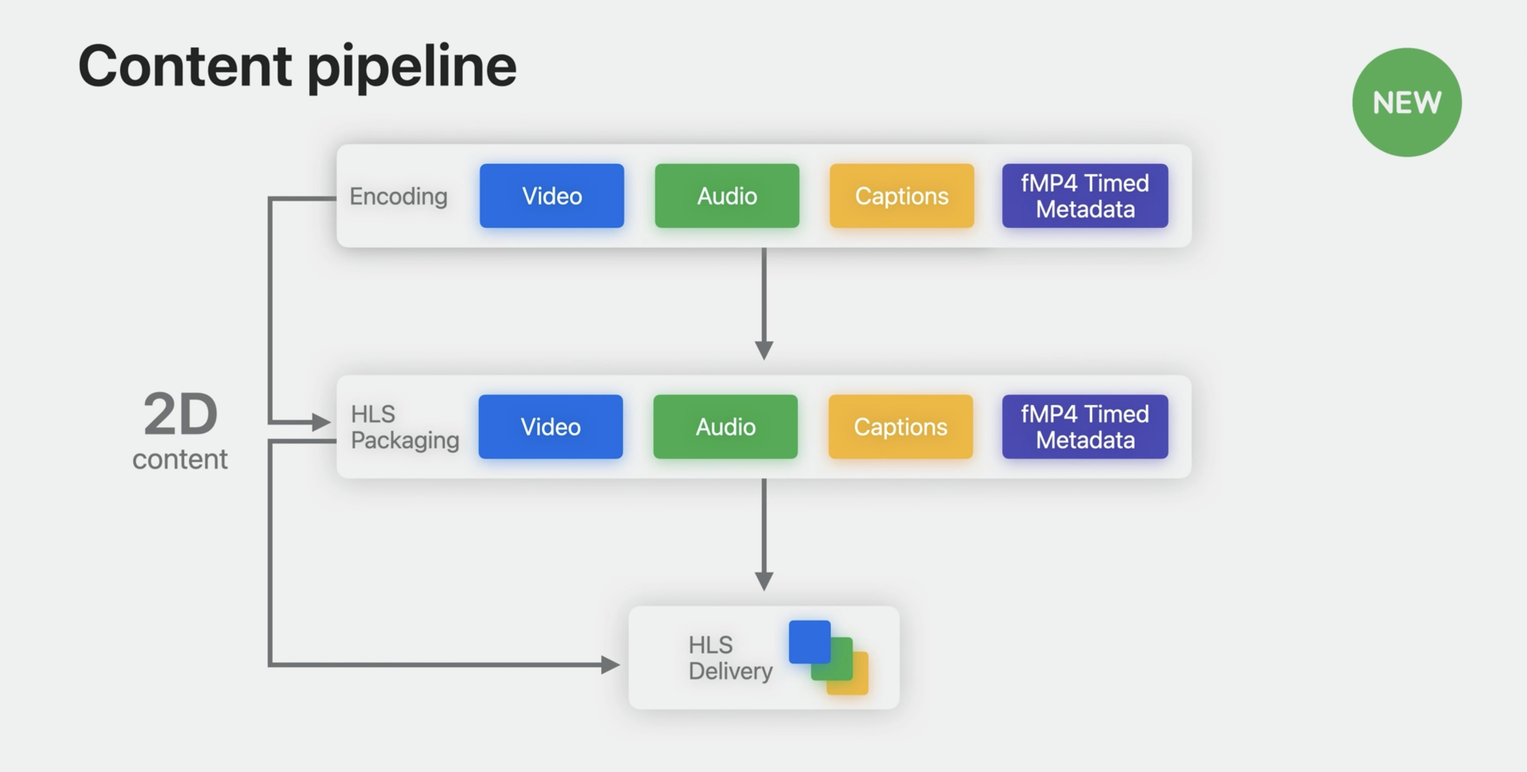
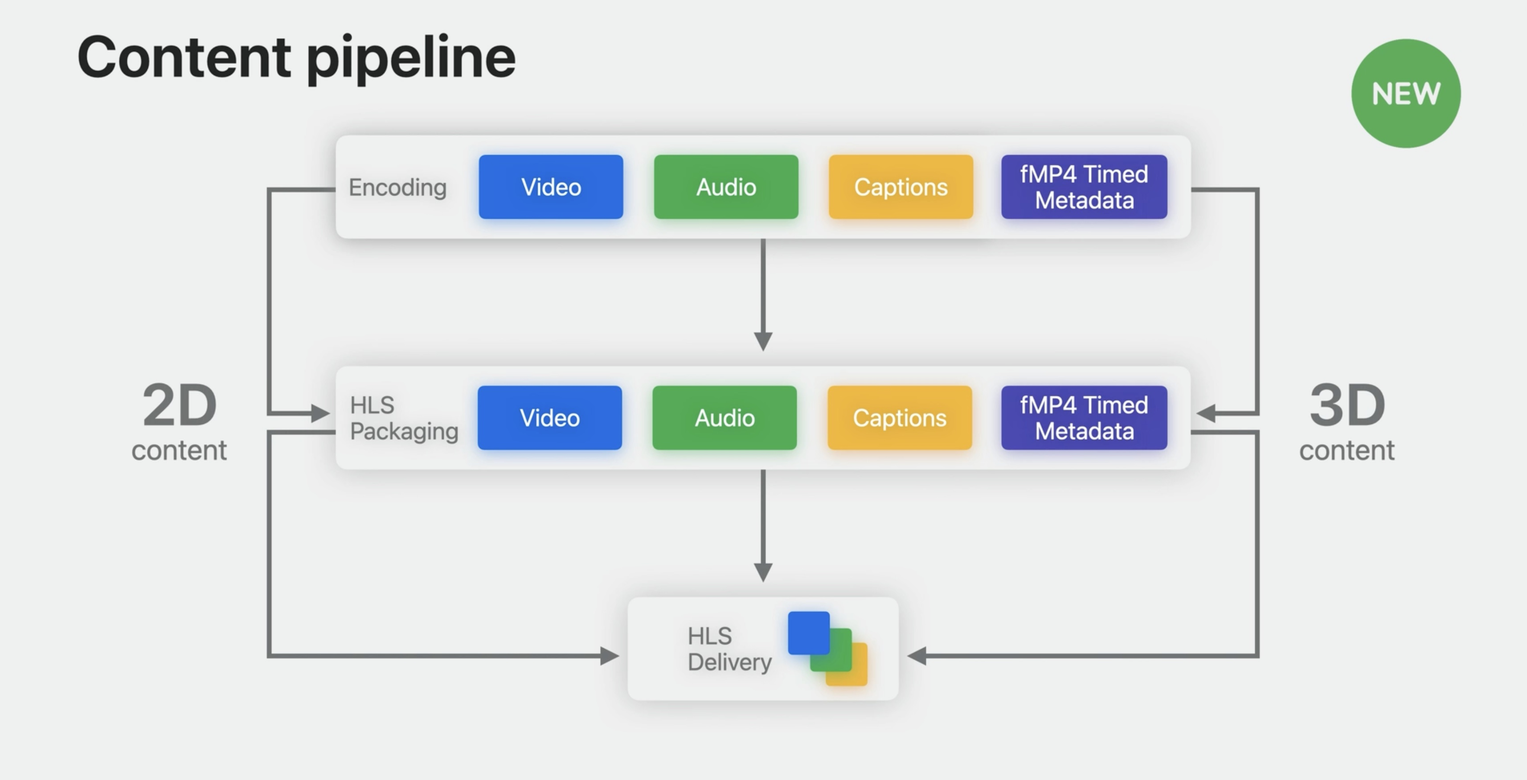
in progress

diff --git a/content/notes/wwdc23/10071.md b/content/notes/wwdc23/10071.md
@@ -11,15 +11,257 @@ In this talk, we're going to look at how to prepare and deliver streaming conten
 
 # Content pipeline
 
-Considering the content pipeline, we'll start with media encoding of video, audio, and captions. Then, those media resources need to be packaged, ready for HLS delivery. This is how 2D content is delivered today. The goal of delivering 3D content is to build upon current 2D processes. 
+Considering the content pipeline, we'll start with media encoding of video, audio, and captions. Then, those media resources need to be packaged, ready for HLS delivery. This is how 2D content is delivered today. The goal of delivering 3D content is to build upon current 2D processes.
 
-![Content pipeline][contentPipeline]  
+![Content pipeline][contentPipeline]
 
 [contentPipeline]: ../../../images/notes/wwdc23/10071/contentPipeline.jpg
 
-HLS adds new support for fragmented MP4 timed metadata that allows an important adaptation. Please note the HTTP Live Streaming page on the Apple Developer website, which provides links to documentation, tools, example streams, developer forums, and other resources. This is where more details covered in this talk will be made available over time. Our goal is that delivering 2D audiovisual content to this platform should be the same as all our other platforms. This is achieved by building upon Apple Media technology such as HTTP Live Streaming, AVFoundation, Core Media, and standards-based formats such as the ISO-based media file format, often thought of as MPEG-4. This is done all while supporting a new spatial experiences paradigm. For a deep dive into how to best support playback of audiovisual media, see the session "Create a great spatial experience for video playback." For video, encode the source video. Edit it to the right length and color correct it for the bitrate tiers that matter to you. Here you'll make choices of how you configure and use video encoders such as HEVC, short for High Efficiency Video Coding. While support for existing 2D audiovisual media you deliver to other Apple platforms is fully supported, take note of these playback capabilities. This platform supports playback of up to 4K resolution, allowing your highest-quality video to be experienced. The display's refresh rate is 90 Hertz, And for 24-frames-per-second video, a special 96-hertz mode may be used automatically. There's support for standard and high dynamic range. For your video's corresponding audio, identify and produce the number of source audio streams you need. The number depends upon the set of spoken languages you are targeting and the roles of that audio. One role might be main dialogue, another, audio descriptions. Encode these sources for delivery with HLS in mind. You may want to deliver Spatial Audio, along with a fallback stereo audio track. This ensures a great experience for those devices supporting Spatial Audio and reliable playback everywhere. The HLS Developer page has links to documentation on preparing audio. And then there are captions. Here, captions includes both subtitles and closed captions to cover different languages and roles. The term "subtitles" is used for transcriptions of spoken text providing translations in different languages for viewers that may not speak the language or for establishing the settings time and place. Closed captions is like subtitles but is intended when the audio can't be heard by the viewer. Close captions provide a transcription of not only the dialogue but also of sound effects and other relevant audio cues. There might also be subtitles for the Deaf and hard of hearing, SDH, serving the same purpose. Akin to video and audio encoding, you should produce caption files and formats supported by HLS, most commonly WebVTT. With source video, audio, and captions in hand, next comes packaging. Packaging is a process that transforms the source media into various types of segments for reliable delivery. This can be done with Apple's HLS tools available at the earlier HLS streaming page. Some content providers might use their own production tools, hardware, or workflows. Others might be vendors delivering those services and tools to the first group. The goal of packaging is to produce a set of media segments, the media playlists that drive their use, and a multivariant playlist that ties them all together. Two kinds of HLS media segments are most typically used today. Fragmented MP4 media segments are produced by starting with an already encoded movie file of video or audio and generating a number of resources. These resources are known as media segments. It is these segments that are retrieved by client devices during playback. Subtitle files also require segmenting. This is done with a subtitle-segmenting tool to generate media segments. A source WebVTT file may be split into any number of WebVTT files for the target segment duration. Finally, the collection of HLS resources is hosted on a web server for HTTP delivery. This might be to one server that serves clients directly or to an origin server used with a content delivery network, or a CDN. Either way, it is these resources that are delivered to client devices for playback. Now that we've reviewed the 2D production and delivery pipeline, let's turn to 3D content and the differences taking advantage of new spatial capabilities. We will again look at source encoding, packaging, and delivery, focusing on differences between 2D content and 3D stereoscopic content. So, we're talking about 3D video. Let's deconstruct this term. First, it's video, so a sequence of frames in a movie track or a network stream. The "3D" in "3D video" is used interchangeably with stereoscopic, which provides an image for the left eye, and another very similar image from a slightly different perspective for the right eye. These differences between the left and right images, called parallax, causes you to perceive three-dimensional depth in the video when presented. While there are choices in how 3D video frames might be carried there are some guiding principles that seem useful. By using a single video track for all stereo frames, traditional production with 2D video tracks is preserved. Both the left and right images or views, for any display time is in a single compressed frame. If you have a frame in your hands, you have both views or the stereo pair. It should be efficient, ideally, it's supported by Apple silicon, and to the greatest degree possible, it should be decodable by non-3D-aware playback, allowing the video to be auditioned in 2D workflows. To deliver stereo frames, we introduce the use of multiview HEVC, also called "MV-HEVC." It's an extension of HEVC. The "MV" is multiview. Carrying more than one view in each frame, each frame has a pair of compressed left and right images. Because MV-HEVC is HEVC at its heart, Apple silicon supports it. In MV-HEVC stores the base HEVC 2D view in each compressed frame. Encoding determines a difference, or delta, between the left and right images. This technique, known as 2D Plus Delta, means that 2D decoders can find and use the base 2D view, for example the left eye. But 3D decoders can calculate the other view to present both views to the corresponding eyes. Efficiency is achieved because the differences between base 2D images uses standard HEVC techniques, and just the differences between the left and right eye views are described in the stereo frames. The video format description, or the visual sample entry in MPEG-4, indicates the coding type, the codec, the dimensions of each view, and other details necessary to decode the video frames. A new extension to the video format description is introduced. Termed the Video Extended Usage box, it serves as a lightweight, easily discoverable signal that the video is stereoscopic, and which stereo eye views are present. For HLS delivery, this will be both left and right. A specification describing this new VEXU box is available with the SDK. Its structure will evolve, and that will be described in the specification. Like 2D content, 3D video uses HEVC, except this time, the variation called MV-HEVC. This is required to carry the stereoscopic views. Like with 2D production, local movies with MV-HEVC can be used and should behave like other 2D video. Having both a left and a right image presented to the corresponding eye produces a perception of stereoscopic depth, providing a sense of relative depth.
+HLS adds new support for fragmented MP4 timed metadata that allows an important adaptation. 
 
-An object in the video scene might be perceived nearer or farther than another due to the differing amounts of parallax. Three primary zones of stereoscopic depth can be defined. They are the screen plane with no parallax cues; negative parallax, which will cause objects to be perceived in front of the screen plane; and positive parallax, which will cause objects to be perceived behind the screen plane. If an element like a caption is rendered with no parallax in the same area of the frame as negative parallax cues, then a depth conflict will be created and cause discomfort when viewing. Question. Given stereoscopic parallax and potential for depth conflict, how involved is producing captions for 3D video? Can we support the following? Playback works for horizontal captions, playback works across languages, including for vertical captions, and playback works when accessibility settings is used to adjust the user's preferred caption sizing. Well, the answer is yes. With stereoscopic video using the approach I'll next describe, captions should just work as is, while also allowing the same 2D caption assets to be shared between 2D and 3D experiences. This is possible by including the new timed metadata I mentioned earlier. With stereoscopic video, avoiding depth conflict and visual elements overlaying the video is important. Instead of requiring new caption formats or changes to existing formats, we offer a way to characterize each video frame's parallax. This can vary across the frame with some areas apparently closer and some farther from the viewer. We call this a parallax contour, and it is recorded as metadata in a metadata track that is synchronized with a video track's frames. If we tile the 3D video and indicate the depth parallax for each tile, we can use that to ensure that captions never interfere with elements in the stereo video. During playback, the parallax of the caption will be automatically adjusted to avoid depth conflict. Each metadata item with such a parallax video contour describes a 2D tiling of the associated video with the minimum parallax value associated with each tile. Each video frame's presentation should be associated with a metadata item describing the video frame's contour. We recommend a 10 by 10 tiling as a good balance between storage and resolution to characterize different areas of parallax in the video. Considering how this parallax metadata is produced, start with left and right views for each frame. This can be done in production with two synchronized video tracks and doesn't require MV-HEVC. Then, perform parallax or disparity analysis to create parallax information suitable for describing the tiling. For each stereo frame, this is then packaged in a metadata payload for the next step. A specification describing the format of this metadata is available with the SDK. This parallax information is packaged in metadata samples and written into a timed metadata track. The metadata track will be associated with the corresponding video it describes. The metadata and video track should be multiplexed with the video so that HLS packaging will produce video segments with both the video and the parallax metadata. Captions you might already produce for 2D can be reused with 3D. This means the processes used today or the vendor you might work with can continue to work in 2D with your 3D production. Also, this means your 3D content is agnostic to the choice of languages, horizontal and vertical layout, or potential use of accessibility subtitle preferences by users. By adding the described parallax metadata, the platform adapts dynamically to the parallax metadata you build. As for audio use with 3D video, you can use the same audio use for 2D delivery. As the platform supports head tracking, consider using a Spatial Audio format. To share the same audio between 2D and 3D experiences, the video should match timingwise, having the same edits. If they differ, you will need to separate audio tracks between the 2D and 3D assets. Turning to packaging of 3D, updated HLS tools take care of the details, with 3D assets making the process nearly identical to that with 2D. Most production systems, which do not use Apple's tools, will be able to use the new specs that are being released to build equivalent functionality. If you're building your own playlists or inspecting them, take note of a few changes. REQ-VIDEO-LAYOUT is a new tag for video streams to indicate video is stereoscopic. The attribute value indicates if the video is stereo or not. Note that if your asset is loaded as 3D, it won't switch to 2D or vice versa. 2D Video is unchanged and can be mixed with 3D video in the same playlist. REQ-VIDEO-LAYOUT requires a new version of the HLS spec, so the version is updated to 12. This is documented with the SDK. Here's an example multivariant playlist with the change of the version number to 12, and using REQ-VIDEO-LAYOUT for the 3D video stream. For the best navigation experience, you should include a 2D iFrame stream to the multivariant playlist to support thumbnail scrubbing. Finally, HLS delivery works the same with 3D assets. Delivering 3D assets is largely the same as delivering 2D assets, but there are some things you can do to optimize the experience. Prepare your source assets, noting to use MV-HEVC for 3D video, and including the new parallax contour metadata. Audio and caption production can be the same. Use updated packaging to produce the relevant segments and playlists. Hosting remains the same. Before closing, I want to emphasize that visual comfort is a key content-design goal for 3D experiences. 3D content should be comfortable to watch for sufficiently long durations. Some 3D content characteristics that could potentially cause comfort issues include extreme parallax, both negative and positive, high motion in the content causing focusing difficulties; as well as depth conflicts resulting from something termed "window violations." Screen size may affect viewing comfort, depending on how much of the screen is in the viewer's horizontal field of view. Note that the user can affect the screen size by positioning it nearer or farther. So in our journey, we've looked at 2D and 3D delivery with HTTP Live Streaming. For video, I introduced MV-HEVC. For audio, we noted that the same audio streams can be used across 2D and 3D. For captions, the same streams can likewise be used across 2D and 3D. Finally, a new timed metadata format is introduced to characterize the 3D videos' parallax, allowing the same captions to be used. To wrap up, we've made it as easy as possible to bring your existing 2D content to a spatial experience. With some small modifications to your current 2D pipeline, you can support 3D content using MV-HEVC. You can even continue to use all your existing captions from 2D assets. But if you provide timed metadata, those captions can be unobscured and provide a comfortable viewing experience. Watch our companion session for considerations in implementing playback of video. We look forward to the great new content you'll be delivering. Thanks for joining us today. ♪
+Please note the HTTP Live Streaming page on the Apple Developer website, which provides links to documentation, tools, example streams, developer forums, and other resources. This is where more details covered in this talk will be made available over time. 
+
+# 2D audiovisual media
+
+Delivery of 2D audiovisual content is the same. 
+
+Media functionality is built upon existing technologies:  
+- AVFoundation, HTTP Live Streaming  
+- Standards-based formats such as fragmented MP4, WebVTT  
+
+Our goal is that delivering 2D audiovisual content to this platform should be the same as all our other platforms. This is achieved by building upon Apple Media technology such as HTTP Live Streaming, AVFoundation, Core Media, and standards-based formats such as the ISO-based media file format, often thought of as MPEG-4. This is done all while supporting a new spatial experiences paradigm. For a deep dive into how to best support playback of audiovisual media, see the session:
+
+[Create a great spatial playback experience - WWDC23](https://developer.apple.com/wwdc23/10070)  
+
+For video, encode the source video. Edit it to the right length and color correct it for the bitrate tiers that matter to you. Here you'll make choices of how you configure and use video encoders such as HEVC, short for High Efficiency Video Coding. While support for existing 2D audiovisual media you deliver to other Apple platforms is fully supported, take note of these playback capabilities.
+
+![2D audiovisual media][audiovisualMedia]
+
+[audiovisualMedia]: ../../../images/notes/wwdc23/10071/audiovisualMedia.jpg
+
+This platform supports playback of up to 4K resolution, allowing your highest-quality video to be experienced. The display's refresh rate is 90 Hertz, And for 24-frames-per-second video, a special 96-hertz mode may be used automatically. There's support for standard and high dynamic range. 
+
+### 2D video playback capabilities
+- Up to 4K resolution video playback
+- 90Hz display refresh rate
+- Color pipeline supports Standard & High-Dynamic Range content
+
+![2D audiovisual media][audiovisualMedia2]
+
+[audiovisualMedia2]: ../../../images/notes/wwdc23/10071/audiovisualMedia2.jpg
+
+# Encode audio
+
+For your video's corresponding audio, identify and produce the number of source audio streams you need. The number depends upon the set of spoken languages you are targeting and the roles of that audio. One role might be main dialogue, another, audio descriptions.
+
+![2D audiovisual media][audiovisualMedia3]
+
+[audiovisualMedia3]: ../../../images/notes/wwdc23/10071/audiovisualMedia3.jpg
+
+Encode these sources for delivery with HLS in mind. You may want to deliver Spatial Audio, along with a fallback stereo audio track. This ensures a great experience for those devices supporting Spatial Audio and reliable playback everywhere. The HLS Developer page has links to documentation on preparing audio. 
+
+# Prepare captions
+
+And then there are captions. Here, captions includes both subtitles and closed captions to cover different languages and roles. The term "subtitles" is used for transcriptions of spoken text providing translations in different languages for viewers that may not speak the language or for establishing the settings time and place.
+
+![2D audiovisual media][audiovisualMedia4]
+
+[audiovisualMedia4]: ../../../images/notes/wwdc23/10071/audiovisualMedia4.jpg
+
+
+Closed captions is like subtitles but is intended when the audio can't be heard by the viewer. Close captions provide a transcription of not only the dialogue but also of sound effects and other relevant audio cues. There might also be subtitles for the Deaf and hard of hearing, SDH, serving the same purpose. Akin to video and audio encoding, you should produce caption files and formats supported by HLS, most commonly WebVTT. 
+
+# Package for HLS delivery
+
+With source video, audio, and captions in hand, next comes packaging. Packaging is a process that transforms the source media into various types of segments for reliable delivery. This can be done with Apple's HLS tools available at the earlier HLS streaming page. Some content providers might use their own production tools, hardware, or workflows. Others might be vendors delivering those services and tools to the first group. The goal of packaging is to produce a set of media segments, the media playlists that drive their use, and a multivariant playlist that ties them all together.
+
+![2D audiovisual media][audiovisualMedia5]
+
+[audiovisualMedia5]: ../../../images/notes/wwdc23/10071/audiovisualMedia5.jpg
+
+# Segmenting a movie file
+Two kinds of HLS media segments are most typically used today. Fragmented MP4 media segments are produced by starting with an already encoded movie file of video or audio and generating a number of resources. These resources are known as media segments.
+
+![2D audiovisual media][audiovisualMedia6]
+
+[audiovisualMedia6]: ../../../images/notes/wwdc23/10071/audiovisualMedia6.jpg
+
+It is these segments that are retrieved by client devices during playback. 
+
+# Segmenting captions
+
+Subtitle files also require segmenting. This is done with a subtitle-segmenting tool to generate media segments. A source WebVTT file may be split into any number of WebVTT files for the target segment duration.
+
+![2D audiovisual media][audiovisualMedia7]
+
+[audiovisualMedia7]: ../../../images/notes/wwdc23/10071/audiovisualMedia7.jpg
+
+# Deliver with HLS
+Finally, the collection of HLS resources is hosted on a web server for HTTP delivery. This might be to one server that serves clients directly or to an origin server used with a content delivery network, or a CDN.
+
+![2D audiovisual media][audiovisualMedia8]
+
+[audiovisualMedia8]: ../../../images/notes/wwdc23/10071/audiovisualMedia8.jpg
+
+Either way, it is these resources that are delivered to client devices for playback. 
+
+# 3D audiovisual media
+
+Now that we've reviewed the 2D production and delivery pipeline, let's turn to 3D content and the differences taking advantage of new spatial capabilities. We will again look at source encoding, packaging, and delivery, focusing on differences between 2D content and 3D stereoscopic content. So, we're talking about 3D video.
+
+# 3D video 
+Let's deconstruct this term. First, it's video, so a sequence of frames in a movie track or a network stream. The "3D" in "3D video" is used interchangeably with stereoscopic, which provides an image for the left eye, and another very similar image from a slightly different perspective for the right eye.
+
+![3D audiovisual media][threeDAudiovisualMedia]
+
+[threeDAudiovisualMedia]: ../../../images/notes/wwdc23/10071/threeDAudiovisualMedia.jpg
+
+These differences between the left and right images, called parallax, causes you to perceive three-dimensional depth in the video when presented.
+
+![3D audiovisual media][threeDAudiovisualMedia2]
+
+[threeDAudiovisualMedia2]: ../../../images/notes/wwdc23/10071/threeDAudiovisualMedia2.jpg
+
+While there are choices in how 3D video frames might be carried there are some guiding principles that seem useful. 
+
+- All video frames should be carried in one video track  
+- Both left and right eye images for a time are in each compressed video frame  
+- Coding efficiency  
+- Support on Apple silicon  
+- Compatible with 2D video  
+
+By using a single video track for all stereo frames, traditional production with 2D video tracks is preserved. Both the left and right images or views, for any display time is in a single compressed frame. If you have a frame in your hands, you have both views or the stereo pair. It should be efficient, ideally, it's supported by Apple silicon, and to the greatest degree possible, it should be decodable by non-3D-aware playback, allowing the video to be auditioned in 2D workflows. 
+
+# Multiview video compression
+
+### Multiview HEVC compression used for 3D
+- Also known as "MV-HEVC"  
+- Extensions to HEVC defined in ISO/IEC 23008-2 (same as ITU H.265)  
+- Carries multiple views in each compressed frame  
+- We use a left eye view and a right eye view for 3D video
+
+To deliver stereo frames, we introduce the use of multiview HEVC, also called "MV-HEVC." It's an extension of HEVC. The "MV" is multiview. Carrying more than one view in each frame, each frame has a pair of compressed left and right images.
+
+## MV-HEVC
+- MV-HEVC is HEVC, so Apple silicon used  
+- Carries base HEVC 2D view data as-is  
+- Uses difference between left and right views  
+- Stores original plus this difference (called 2D Plus Delta)  
+- Efficiency between 2D frames and between views within 3D frames  
+
+Because MV-HEVC is HEVC at its heart, Apple silicon supports it. In MV-HEVC stores the base HEVC 2D view in each compressed frame. Encoding determines a difference, or delta, between the left and right images  
+
+This technique, known as 2D Plus Delta, means that 2D decoders can find and use the base 2D view, for example the left eye. But 3D decoders can calculate the other view to present both views to the corresponding eyes. 
+
+
+Efficiency is achieved because the differences between base 2D images uses standard HEVC techniques, and just the differences between the left and right eye views are described in the stereo frames.
+
+![3D audiovisual media][threeDAudiovisualMedia3]
+
+[threeDAudiovisualMedia3]: ../../../images/notes/wwdc23/10071/threeDAudiovisualMedia3.jpg
+
+# In video track signaling
+
+The video format description, or the visual sample entry in MPEG-4, indicates the coding type, the codec, the dimensions of each view, and other details necessary to decode the video frames.
+
+![3D audiovisual media][threeDAudiovisualMedia4]
+
+[threeDAudiovisualMedia4]: ../../../images/notes/wwdc23/10071/threeDAudiovisualMedia4.jpg
+
+A new extension to the video format description is introduced. Termed the Video Extended Usage box, it serves as a lightweight, easily discoverable signal that the video is stereoscopic, and which stereo eye views are present. For HLS delivery, this will be both left and right. A specification describing this new VEXU box is available with the SDK.
+
+![3D audiovisual media][threeDAudiovisualMedia5]
+
+[threeDAudiovisualMedia5]: ../../../images/notes/wwdc23/10071/threeDAudiovisualMedia5.jpg
+
+Its structure will evolve, and that will be described in the specification. 
+
+
+# 3D video encoding
+- Similar to 2D video production using HEVC or other codecs  
+- 3D video requires Multiview HEVC to carry stereoscopic frames  
+- Local movies containing MV-HEVC should behave like movies with 2D video
+
+Like 2D content, 3D video uses HEVC, except this time, the variation called MV-HEVC. This is required to carry the stereoscopic views. Like with 2D production, local movies with MV-HEVC can be used and should behave like other 2D video. 
+
+# Stereoscopic depth
+Having both a left and a right image presented to the corresponding eye produces a perception of stereoscopic depth, providing a sense of relative depth.
+
+![3D audiovisual media][threeDAudiovisualMedia6]
+
+[threeDAudiovisualMedia6]: ../../../images/notes/wwdc23/10071/threeDAudiovisualMedia6.jpg
+
+An object in the video scene might be perceived nearer or farther than another due to the differing amounts of parallax.
+Three primary zones of stereoscopic depth can be defined. They are the screen plane with no parallax cues; negative parallax, which will cause objects to be perceived in front of the screen plane; and positive parallax, which will cause objects to be perceived behind the screen plane. If an element like a caption is rendered with no parallax in the same area of the frame as negative parallax cues, then a depth conflict will be created and cause discomfort when viewing.
+
+![3D audiovisual media][threeDAudiovisualMedia7]
+
+[threeDAudiovisualMedia7]: ../../../images/notes/wwdc23/10071/threeDAudiovisualMedia7.jpg
+
+# Captions and 3D video
+Question. Given stereoscopic parallax and potential for depth conflict, how involved is producing captions for 3D video? 
+
+Can we support the following? Playback works for horizontal captions, playback works across languages, including for vertical captions, and playback works when accessibility settings is used to adjust the user's preferred caption sizing. Well, the answer is yes. With stereoscopic video using the approach I'll next describe, captions should just work as is, while also allowing the same 2D caption assets to be shared between 2D and 3D experiences. This is possible by including the new timed metadata I mentioned earlier. 
+
+# Adapting captions to 3D video
+- Important to avoid depth conflict in playback of 3D video  
+- Done by characterizing parallax across left and right views of the video frame  
+- This is termed a parallax contour  
+- This parallax contour is recorded as a metadata item in a timed metadata track corresponding to each video frame's timing  
+
+With stereoscopic video, avoiding depth conflict and visual elements overlaying the video is important. Instead of requiring new caption formats or changes to existing formats, we offer a way to characterize each video frame's parallax. This can vary across the frame with some areas apparently closer and some farther from the viewer. We call this a parallax contour, and it is recorded as metadata in a metadata track that is synchronized with a video track's frames.
+
+![3D audiovisual media][threeDAudiovisualMedia8]
+
+[threeDAudiovisualMedia8]: ../../../images/notes/wwdc23/10071/threeDAudiovisualMedia8.jpg
+
+If we tile the 3D video and indicate the depth parallax for each tile, we can use that to ensure that captions never interfere with elements in the stereo video. During playback, the parallax of the caption will be automatically adjusted to avoid depth conflict. 
+
+# Adaptive parallax
+Each metadata item with such a parallax video contour describes a 2D tiling of the associated video with the minimum parallax value associated with each tile.
+
+![3D audiovisual media][threeDAudiovisualMedia9]
+
+[threeDAudiovisualMedia9]: ../../../images/notes/wwdc23/10071/threeDAudiovisualMedia9.jpg
+
+Each video frame's presentation should be associated with a metadata item describing the video frame's contour. We recommend a 10 by 10 tiling as a good balance between storage and resolution to characterize different areas of parallax in the video. 
+
+# Produce adaptive parallax metadata
+Considering how this parallax metadata is produced, start with left and right views for each frame. This can be done in production with two synchronized video tracks and doesn't require MV-HEVC. Then, perform parallax or disparity analysis to create parallax information suitable for describing the tiling.
+
+![3D audiovisual media][threeDAudiovisualMedia10]
+
+[threeDAudiovisualMedia10]: ../../../images/notes/wwdc23/10071/threeDAudiovisualMedia10.jpg
+
+For each stereo frame, this is then packaged in a metadata payload for the next step. A specification describing the format of this metadata is available with the SDK. 
+
+# Produce adaptive parallax metadata
+This parallax information is packaged in metadata samples and written into a timed metadata track. The metadata track will be associated with the corresponding video it describes.
+
+![3D audiovisual media][threeDAudiovisualMedia11]
+
+[threeDAudiovisualMedia11]: ../../../images/notes/wwdc23/10071/threeDAudiovisualMedia11.jpg
+
+The metadata and video track should be multiplexed with the video so that HLS packaging will produce video segments with both the video and the parallax metadata.
+
+![3D audiovisual media][threeDAudiovisualMedia12]
+
+[threeDAudiovisualMedia12]: ../../../images/notes/wwdc23/10071/threeDAudiovisualMedia12.jpg
+
+# Captions and 3D video
+- Reuse your 2D captions with your 3D video  
+- Your 2D production remains the same  
+- Add the parallax contour metadata to your  
+- 3D video source movies  
+
+Captions you might already produce for 2D can be reused with 3D. This means the processes used today or the vendor you might work with can continue to work in 2D with your 3D production. Also, this means your 3D content is agnostic to the choice of languages, horizontal and vertical layout, or potential use of accessibility subtitle preferences by users. By adding the described parallax metadata, the platform adapts dynamically to the parallax metadata you build. 
+
+# Audio and 3D video
+- Same audio as 2D  
+- Spatial audio playback with head tracking  
+- Share same audio across 2D and 3D experiences  
+
+As for audio use with 3D video, you can use the same audio use for 2D delivery. As the platform supports head tracking, consider using a Spatial Audio format. To share the same audio between 2D and 3D experiences, the video should match timingwise, having the same edits. If they differ, you will need to separate audio tracks between the 2D and 3D assets. Turning to packaging of 3D, updated HLS tools take care of the details, with 3D assets making the process nearly identical to that with 2D. Most production systems, which do not use Apple's tools, will be able to use the new specs that are being released to build equivalent functionality. If you're building your own playlists or inspecting them, take note of a few changes. REQ-VIDEO-LAYOUT is a new tag for video streams to indicate video is stereoscopic. The attribute value indicates if the video is stereo or not. Note that if your asset is loaded as 3D, it won't switch to 2D or vice versa. 2D Video is unchanged and can be mixed with 3D video in the same playlist. REQ-VIDEO-LAYOUT requires a new version of the HLS spec, so the version is updated to 12. This is documented with the SDK. Here's an example multivariant playlist with the change of the version number to 12, and using REQ-VIDEO-LAYOUT for the 3D video stream. For the best navigation experience, you should include a 2D iFrame stream to the multivariant playlist to support thumbnail scrubbing. Finally, HLS delivery works the same with 3D assets. Delivering 3D assets is largely the same as delivering 2D assets, but there are some things you can do to optimize the experience. Prepare your source assets, noting to use MV-HEVC for 3D video, and including the new parallax contour metadata. Audio and caption production can be the same. Use updated packaging to produce the relevant segments and playlists. Hosting remains the same. Before closing, I want to emphasize that visual comfort is a key content-design goal for 3D experiences. 3D content should be comfortable to watch for sufficiently long durations. Some 3D content characteristics that could potentially cause comfort issues include extreme parallax, both negative and positive, high motion in the content causing focusing difficulties; as well as depth conflicts resulting from something termed "window violations." Screen size may affect viewing comfort, depending on how much of the screen is in the viewer's horizontal field of view. Note that the user can affect the screen size by positioning it nearer or farther. So in our journey, we've looked at 2D and 3D delivery with HTTP Live Streaming. For video, I introduced MV-HEVC. For audio, we noted that the same audio streams can be used across 2D and 3D. For captions, the same streams can likewise be used across 2D and 3D. Finally, a new timed metadata format is introduced to characterize the 3D videos' parallax, allowing the same captions to be used. To wrap up, we've made it as easy as possible to bring your existing 2D content to a spatial experience. With some small modifications to your current 2D pipeline, you can support 3D content using MV-HEVC. You can even continue to use all your existing captions from 2D assets. But if you provide timed metadata, those captions can be unobscured and provide a comfortable viewing experience. Watch our companion session for considerations in implementing playback of video. We look forward to the great new content you'll be delivering. Thanks for joining us today. ♪
 
 
 ## Wrap Up
@@ -36,3 +278,7 @@ An object in the video scene might be perceived nearer or farther than another d
 [ISO Base Media File Format and Apple HEVC Stereo Video](https://developer.apple.com/av-foundation/Stereo-Video-ISOBMFF-Extensions.pdf)  
 [Search the forums for tag wwdc2023-10071](https://developer.apple.com/forums/tags/wwdc2023-10071)  
 [Video Contour Map Payload Metadata within the QuickTime Movie File Format](https://developer.apple.com/av-foundation/Video-Contour-Map-Metadata.pdf)  
+
+
+[contentPipeline]: ../../../images/notes/wwdc23/10071/contentPipeline.jpg
+
